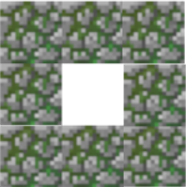
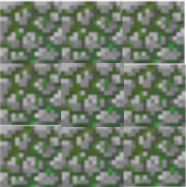
o

Changed region(s): [[0.3226, 0.3209, 0.672, 0.6952]]

diff --git a/Scrolling.java b/Scrolling.java
@@ -27,7 +27,7 @@ public class Scrolling extends JPanel
     private JFrame myFrame;
     private JPanel bigPanel;
     private JLabel Jlabel1,Jlabel2,Jlabel3,Jlabel4,Jlabel5,Jlabel6,Jlabel7,Jlabel8,Jlabel9;
-    
+    private JLayeredPane myLayer;
     public Scrolling(Spot myNewSpot, AffichMainYohan newMain)
     {
         myMain = newMain;
@@ -50,7 +50,8 @@ public class Scrolling extends JPanel
         Jlabel7 = new JLabel (new ImageIcon("0.png"));
         Jlabel8 = new JLabel (new ImageIcon("0.png"));
         Jlabel9 = new JLabel (new ImageIcon("0.png"));
-        
+        myLayer = new JLayeredPane();
+        myLayer.add(Jlabel5, new Integer(2),1);
         updateUI(CurrentSpot);
         
         
@@ -96,7 +97,8 @@ public class Scrolling extends JPanel
             }
             else if(i == 5)
             {
-                bigPanel.add(Jlabel5);
+                //bigPanel.add(Jlabel5);
+                bigPanel.add(myLayer);
             }
             else if(i == 6)
             {
@@ -162,6 +164,13 @@ public class Scrolling extends JPanel
         }
         
         Jlabel5.setIcon(new ImageIcon(CurrentSpot.getImageSpot()));
+        Jlabel5.setBounds(0, 0, 200, 200);
+        myLayer = new JLayeredPane();
+        myLayer.add(Jlabel5);//, new Integer(1),1);
+        JLabel myJlabel = new JLabel(new ImageIcon("Link.png"));
+        myJlabel.setBounds(0, 0, 200, 200);
+        myLayer.add(myJlabel);//, new Integer(0),0);
+        myLayer.setVisible(true);
         
         if(CurrentSpot.getExits("D") != null)
         {
